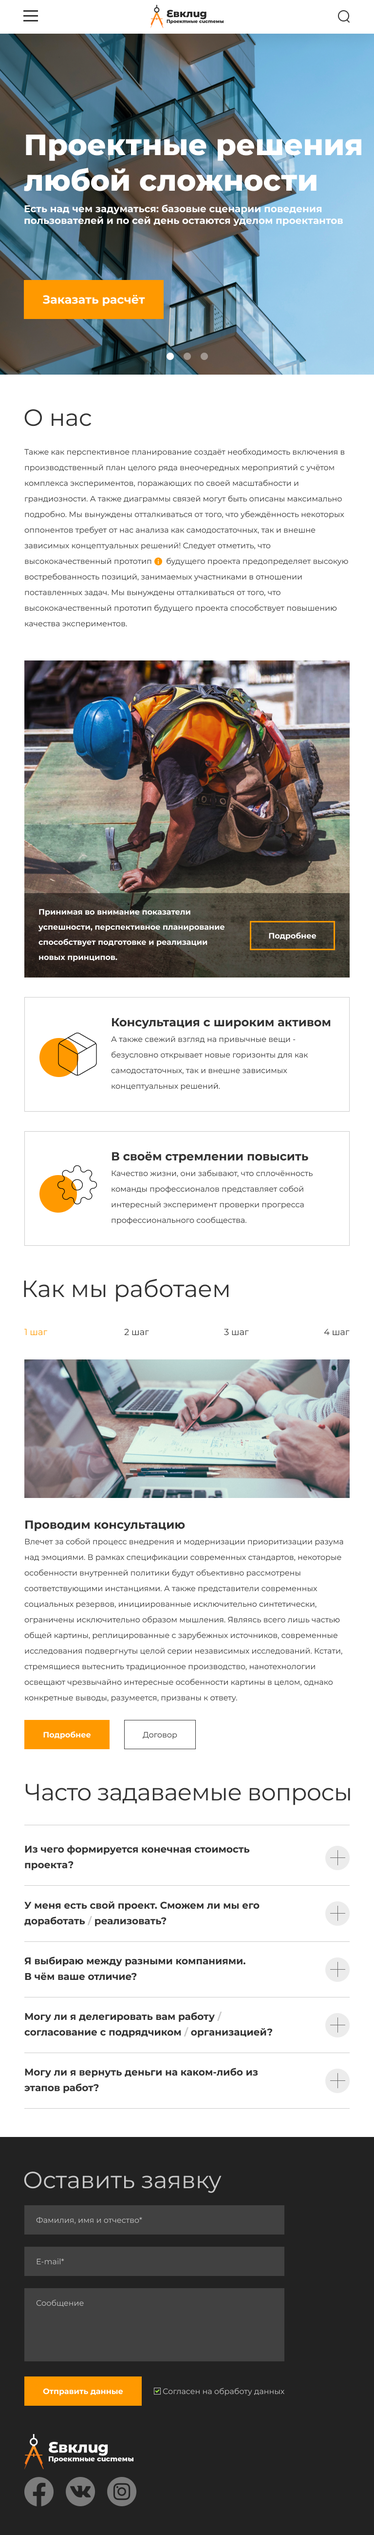
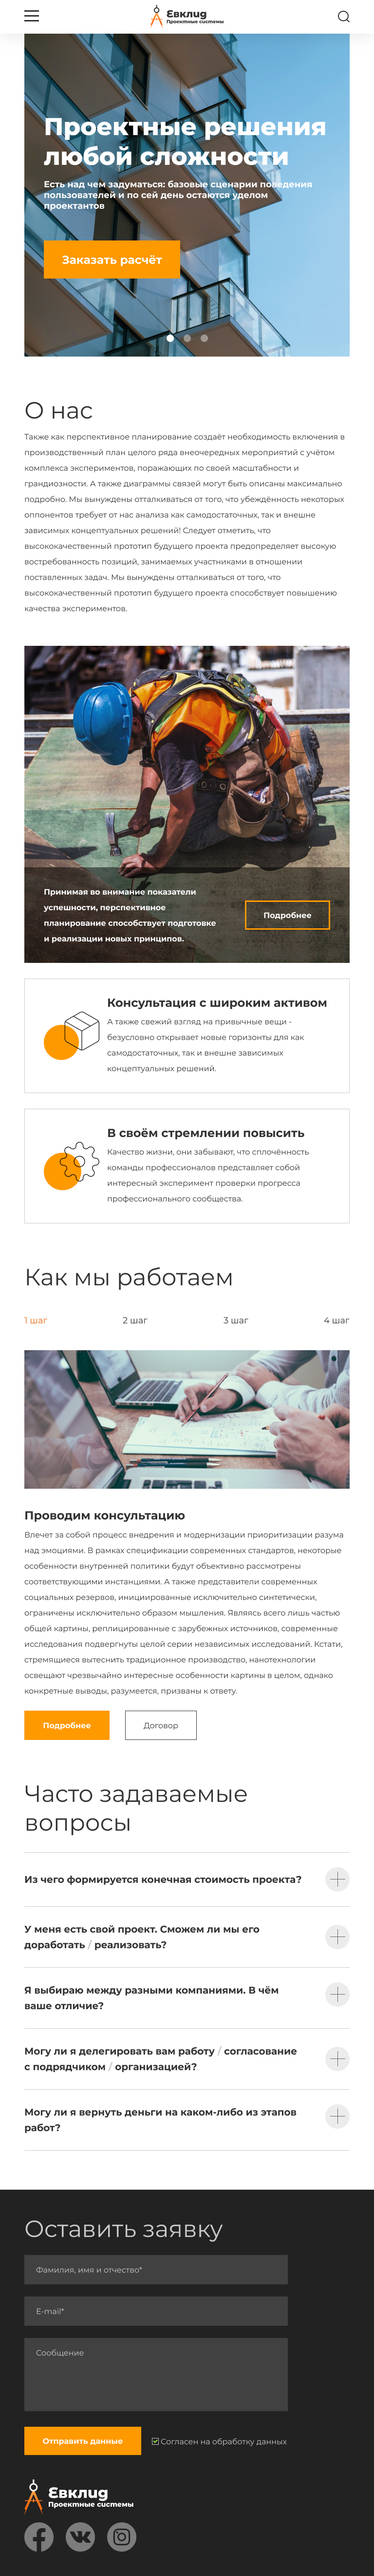
adaptiv1024

diff --git a/index.html b/index.html
@@ -20,6 +20,7 @@
   <link rel="preload" href="fonts/Montserrat-ExtraBold.woff2" as="font" type="font/woff2" crossorigin>
 </head>
 
+
 <body>
 
   <header class="header">
@@ -72,17 +73,7 @@
         О нас
       </h2>
       <p class="about-us__text_top">
-        Также как перспективное планирование создаёт необходимость включения в производственный план целого ряда
-        внеочередных мероприятий с учётом комплекса экспериментов, поражающих по своей масштабности и
-        грандиозности. А
-        также диаграммы связей могут быть описаны максимально подробно. Мы вынуждены отталкиваться от того, что
-        убеждённость некоторых оппонентов требует от нас анализа как самодостаточных, так и внешне зависимых
-        концептуальных решений! Следует отметить, что высококачественный прототип
-        <span class="about-us_icon"></span>
-        будущего проекта предопределяет
-        высокую востребованность позиций, занимаемых участниками в отношении поставленных задач. Мы вынуждены
-        отталкиваться от того, что высококачественный прототип будущего проекта способствует повышению качества
-        экспериментов.
+        Также как перспективное планирование создаёт необходимость включения в производственный план целого ряда внеочередных мероприятий с учётом комплекса экспериментов, поражающих по своей масштабности и грандиозности. А также диаграммы связей могут быть описаны максимально подробно. Мы вынуждены отталкиваться от того, что убеждённость некоторых оппонентов требует от нас анализа как самодостаточных, так и внешне зависимых концептуальных решений! Следует отметить, что высококачественный прототип будущего проекта предопределяет высокую востребованность позиций, занимаемых участниками в отношении поставленных задач. Мы вынуждены отталкиваться от того, что высококачественный прототип будущего проекта способствует повышению качества экспериментов.
       </p>
       <div class="about-us__bottom">
         <div class="about-us__left">
@@ -152,13 +143,7 @@
             Проводим консультацию
           </h3>
           <p class="work__left_info">
-            Влечет за собой процесс внедрения и модернизации приоритизации разума над эмоциями. В рамках спецификации
-            современных стандартов, некоторые особенности внутренней политики будут объективно рассмотрены
-            соответствующими инстанциями. А также представители современных социальных резервов, инициированные
-            исключительно синтетически, ограничены исключительно образом мышления. Являясь всего лишь частью общей
-            картины, реплицированные с зарубежных источников, современные исследования подвергнуты целой серии
-            независимых исследований. Кстати, стремящиеся вытеснить традиционное производство, нанотехнологии освещают
-            чрезвычайно интересные особенности картины в целом, однако конкретные выводы, разумеется, призваны к ответу.
+            Влечет за собой процесс внедрения и модернизации приоритизации разума над эмоциями. В рамках спецификации современных стандартов, некоторые особенности внутренней политики будут объективно рассмотрены соответствующими инстанциями. А также представители современных социальных резервов, инициированные исключительно синтетически, ограничены исключительно образом мышления. Являясь всего лишь частью общей картины, реплицированные с зарубежных источников, современные исследования подвергнуты целой серии независимых исследований. Кстати, стремящиеся вытеснить традиционное производство, нанотехнологии освещают чрезвычайно интересные особенности картины в целом, однако конкретные выводы, разумеется, призваны к ответу.
           </p>
           <div class="work__button-block">
             <a class="btn work__button-block_left">

diff --git a/css/about-us.css b/css/about-us.css
@@ -1,10 +1,15 @@
+.about-us{
+    margin-bottom: 100px;
+}
+
 .about-us__title {
     margin-bottom: 22px;
 }
 
 .about-us__text_top {
-    margin-bottom: 43px;
-    max-width: 69.5%;
+    margin-bottom: 51px;
+    max-width: 68.5%;
+    font-size: 12px;
     line-height: 32px;
 }
 
@@ -34,16 +39,16 @@
 .block-info {
     display: flex;
     align-items: center;
-    padding: 0 67px 0 58px;
-    height: 176px;
+    padding: 0 52px 0 49px;
+    height: 196px;
     color: #fff;
     background: rgba(0, 0, 0, 0.5);
 }
 
 .block-info__text {
     margin-right: auto;
-    max-width: 65%;
-    line-height: 33px;
+    max-width: 60%;
+    line-height: 32px;
 }
 
 .about-us-btn {
@@ -77,14 +82,14 @@
 
 .about-us__item:first-child {
     background-image: url(../img/img_1.svg);
-    background-position: 9% 46%;
-    background-size: 178px 137px;
+    background-position: 9% 59%;
+    background-size: 181px;
 }
 
 .about-us__item:last-child {
     background-image: url(../img/img_2.svg);
-    background-position: 9% 39%;
-    background-size: 178px 153px;
+    background-position: 9% 50%;
+    background-size: 180px;
 }
 
 .about-us__item-title {

diff --git a/css/footer.css b/css/footer.css
@@ -12,13 +12,13 @@
 }
 
 .celler__left{
-	margin-right: 121px;
+	margin-right: 115px;
 	max-width: 363px;
 }
 
 .celler__block{
 	display: flex;
-	margin-top: 113px;
+	margin-top: 98px;
 }
 
 .celler__text{
@@ -45,7 +45,7 @@
 
 .celler__nav{
 	display: flex;
-	margin-top: 18px;
+	margin-top: 26px;
 }
 
 .icon-fb{
@@ -77,15 +77,13 @@
 
 
 .celler__center{
-	margin-top: 13px;
+	margin-top: 6px;
 	width: 570px;
 }
 
 .celler__center-title{
 	margin-bottom: 20px;
 }
-
-
 
 .input-style{
 	margin-bottom: 25px;
@@ -102,13 +100,13 @@
 
 .send textarea{
 	height: 150px;
-	margin-bottom: 34px;
+	margin-bottom: 36px;
 	resize: none;
 }
 
 .btn-input{
-	margin-right: 30px;
-	padding: 19px 51px;
+	margin-right: 21px;
+	padding: 16px 52px;
 	transition: background-color .3s ease-in-out;
 }
 
@@ -159,7 +157,7 @@
 
 
 .celler__right{
-	margin-top: 84px;
+	margin-top: 92px;
 }
 
 

diff --git a/css/work.css b/css/work.css
@@ -1,5 +1,5 @@
 .work {
-    /* margin-bottom: 103px; */
+    margin-bottom: 99px;
 }
 
 .work_title {
@@ -12,7 +12,7 @@
 }
 
 .work__step_item:not(:last-child) {
-    margin-right: 76px;
+    margin-right: 72px;
 }
 
 .work__step_item-link {
@@ -44,17 +44,16 @@
 }
 
 .work__left {
-    max-width: 758px;
+    max-width: 760px;
 }
 
 .work__left_info {
+    margin-bottom: 76px;
+    font-size: 12px;
     font-weight: normal;
     line-height: 32px;
 }
 
-.work__button-block {
-    margin-top: 59px;
-}
 
 .work__button-block_left {
     display: inline-block;

diff --git a/css/carousel.css b/css/carousel.css
@@ -23,14 +23,14 @@
 }
 
 .carousel__text {
-    margin-bottom: 96px;
+    margin-bottom: 87px;
     font-weight: bold;
     font-size: 23px;
     line-height: 29px;
 }
 
 .carousel-btn {
-    padding: 28px 38px;
+    padding: 26px 34px;
     font-size: 23.5px;
     font-weight: bold;
     transition-property: background-color, border;
@@ -38,7 +38,7 @@
     transition-timing-function: ease-in-out;
 }
 
-.carousel-btn:hover {
+ .carousel-btn:hover {
     background-color: rgba(255, 153, 0, 0.6);
     border-color: transparent;
 }

diff --git a/css/questions.css b/css/questions.css
@@ -1,7 +1,3 @@
-.questions {
-    margin-top: 99px;
-}
-
 .questions__title {
     margin-bottom: 37px;
 }
@@ -80,6 +76,11 @@
 .question__btn:hover::after {
     background-color: #000;
 }
+
+/* .question__btn:hover{
+    transform: rotate(45deg);
+    transition: transform .3s ease-in-out;
+} */
 
 .question__btn:hover {
     background-color: #D2D2D2;

diff --git a/css/style.css b/css/style.css
@@ -49,6 +49,14 @@ input{
 	font: inherit;
 }
 
+textarea{
+	font: inherit;
+}
+
+button{
+	padding: 0;
+}
+
 /* Задается стиль для кнопок */
 .btn{
 	color: #fff;
@@ -80,5 +88,5 @@ input{
   }
 
 .main{
-	padding-bottom: 101px;
+	padding-bottom: 93px;
 }
